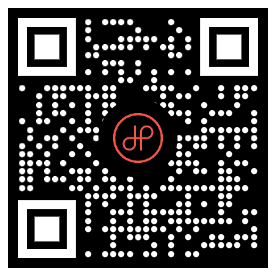
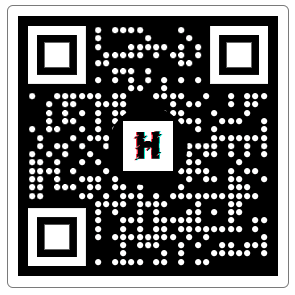
chore: update

diff --git a/src/pages/_app.tsx b/src/pages/_app.tsx
@@ -13,6 +13,12 @@ export default function App({ Component, pageProps }: AppProps) {
         <title>Hùng Xuân</title>
         <meta name='author' content='Hùng Xuân' />
         <meta name='keywords' content='Hùng Xuân' />
+        <link rel='shortcut icon' href='https://hunghg255.github.io/together/img/love.png' />
+        <meta
+          name='viewport'
+          content='width=device-width,initial-scale=1,maximum-scale1,shrink-to-fit=no'
+        />
+
         <meta
           name='description'
           content='A beautiful wedding celebration between Hùng and Xuân, filled with love, joy, and cherished moments.'
@@ -27,11 +33,24 @@ export default function App({ Component, pageProps }: AppProps) {
           name='description'
           content='A beautiful wedding celebration between Hùng and Xuân, filled with love, joy, and cherished moments.'
         />
-        <link rel='shortcut icon' href='https://hunghg255.github.io/together/img/love.png' />
+
+        <meta property='og:type' content='website' />
+        <meta property='og:url' content='https://www.hungxuan.us/' />
+        <meta property='og:title' content='Hùng Xuân' />
         <meta
-          name='viewport'
-          content='width=device-width,initial-scale=1,maximum-scale1,shrink-to-fit=no'
+          property='og:description'
+          content='A beautiful wedding celebration between Hùng and Xuân, filled with love, joy, and cherished moments.'
         />
+        <meta property='og:image' content='https://www.hungxuan.us/og/og.jpg' />
+
+        <meta property='twitter:card' content='summary_large_image' />
+        <meta property='twitter:url' content='https://www.hungxuan.us/' />
+        <meta property='twitter:title' content='Hùng Xuân' />
+        <meta
+          property='twitter:description'
+          content='A beautiful wedding celebration between Hùng and Xuân, filled with love, joy, and cherished moments.'
+        />
+        <meta property='twitter:image' content='https://www.hungxuan.us/og/og.jpg' />
       </Head>
 
       <Component {...pageProps} />

diff --git a/src/components/sections/CalendarSection/index.tsx b/src/components/sections/CalendarSection/index.tsx
@@ -54,11 +54,18 @@ export default function CalendarSection() {
     >
       <div className={styles.content}>
         <div className={styles.title}>Lịch Trình & Địa Điểm</div>
+
         <div className={styles.opening}>
           Hôn lễ sẽ được tổ chức vào{' '}
           <span className={styles.specific}>12 giờ, ngày 27 tháng 10 năm 2024.</span>
         </div>
         {client && <Countdown date={new Date('2024-10-27T12:00:00+07:00')} renderer={renderer} />}
+
+        <br />
+        <br />
+
+        <div className={styles.title}>Nhà Trai</div>
+
         <div className={styles.location}>
           Buổi lễ được cử hành tại{' '}
           <a
@@ -85,6 +92,7 @@ export default function CalendarSection() {
 
       <div className={styles.content}>
         <div className={styles.title}>Nhà Gái</div>
+
         {/* <div className={styles.opening}>
           Hôn lễ sẽ được tổ chức vào{' '}
           <span className={styles.specific}>12 giờ, ngày 27 tháng 10 năm 2024.</span>
@@ -93,7 +101,7 @@ export default function CalendarSection() {
         <div className={styles.location}>
           {/* Buổi lễ được cử hành tại{' '} */}
           <a
-            href={`https://maps.app.goo.gl/8Wf681b1DGE8su3MA`}
+            href={`https://maps.app.goo.gl/9w7YTb6yGpb1rntw7`}
             className={styles.address}
             target={'_blank'}
           >
@@ -105,7 +113,7 @@ export default function CalendarSection() {
         <div>
           <p>QR Địa điểm</p>
           <img
-            src='/qr/address-hung.png'
+            src='/qr/address-xuan.png'
             style={{
               width: 250,
               height: 250,

diff --git a/src/components/sections/StorySection/index.tsx b/src/components/sections/StorySection/index.tsx
@@ -23,7 +23,7 @@ export default function StorySection() {
           <VerticalTimelineElement
             position={'right'}
             className='vertical-timeline-element--work'
-            date='17h00, ngày 16 tháng 01 năm 2024'
+            date='10h00, ngày 27 tháng 10 năm 2024'
             iconStyle={{ backgroundColor: '#362222', color: 'white' }}
             icon={<IconHeartFill />}
           >
@@ -36,7 +36,7 @@ export default function StorySection() {
           <VerticalTimelineElement
             position={'right'}
             className='vertical-timeline-element--work'
-            date='18h00, ngày 16 tháng 01 năm 2024'
+            date='10h30, ngày 27 tháng 10 năm 2024'
             iconStyle={{ backgroundColor: '#362222', color: 'white' }}
             icon={<IconHeartFill />}
           >
@@ -49,7 +49,7 @@ export default function StorySection() {
           <VerticalTimelineElement
             position={'right'}
             className='vertical-timeline-element--work'
-            date='19h00, ngày 16 tháng 01 năm 2024'
+            date='11h30, ngày 27 tháng 10 năm 2024'
             iconStyle={{ backgroundColor: '#362222', color: 'white' }}
             icon={<IconHeartFill />}
           >
@@ -62,7 +62,7 @@ export default function StorySection() {
           <VerticalTimelineElement
             position={'right'}
             className='vertical-timeline-element--work'
-            date='20h00, ngày 16 tháng 01 năm 2024'
+            date='13h30, ngày 27 tháng 10 năm 2024'
             iconStyle={{ backgroundColor: '#362222', color: 'white' }}
             icon={<IconHeartFill />}
           >

diff --git a/src/components/sections/Gift/Gift.tsx b/src/components/sections/Gift/Gift.tsx
@@ -18,7 +18,7 @@ const Gift = () => {
 
         <div className={styles.qr}>
           <div>
-            <img src='/qr/hung.png' alt='bni' />
+            <img src='/qr/qr-hung.jpg' alt='bni' />
             <p>123456789</p>
             <p>Ngô Thị Xuân</p>
           </div>
